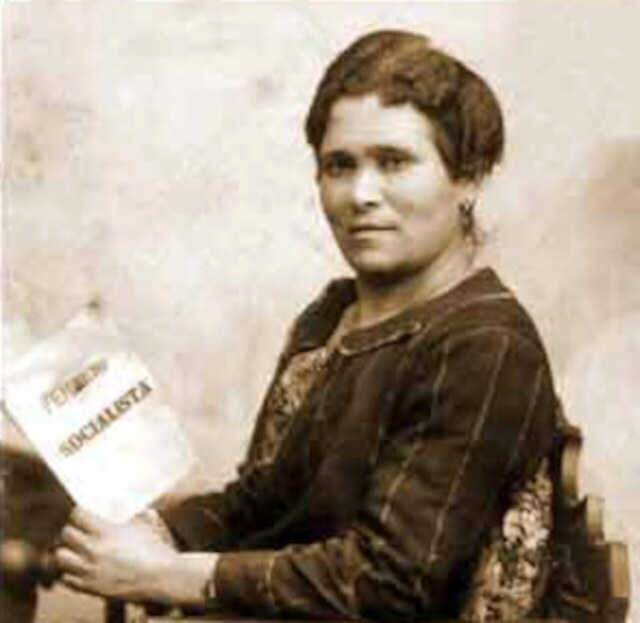
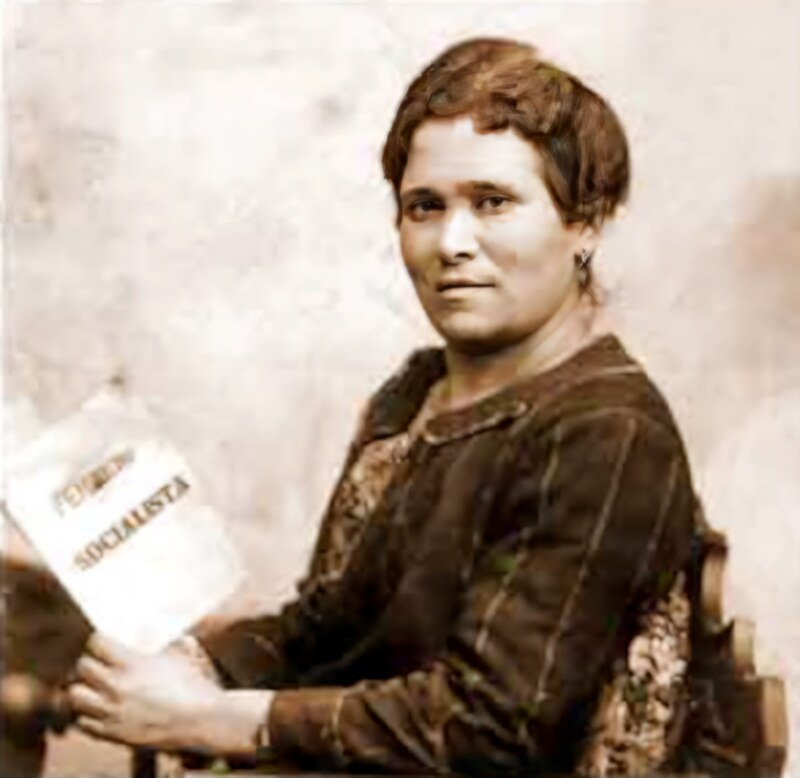
María Cambrils: foto retocada por la autoría
Claude-Session: https://claude.ai/code/session_01GNPi7MLADEHLFNVRKLEQBp

diff --git a/sa1/sesion-6.html b/sa1/sesion-6.html
@@ -5,7 +5,7 @@
   <meta name="viewport" content="width=device-width, initial-scale=1">
   <title>Sesión 6 · Los primeros grupos femeninos socialistas en Asturias · Situación de aprendizaje 1</title>
   <link rel="stylesheet" href="../css/ud.css?v=6d072dc7">
-  <script src="../js/datos-sa1.js?v=ea8b7684" defer></script>
+  <script src="../js/datos-sa1.js?v=d6996e67" defer></script>
   <script src="../js/ud-menu.js?v=d25b05dd" defer></script>
   <script src="../js/ud-actividades.js?v=11ae13f1" defer></script>
 </head>

diff --git a/sa1/sesion-5.html b/sa1/sesion-5.html
@@ -5,7 +5,7 @@
   <meta name="viewport" content="width=device-width, initial-scale=1">
   <title>Sesión 5 · La voz de las trabajadoras asturianas · Situación de aprendizaje 1</title>
   <link rel="stylesheet" href="../css/ud.css?v=6d072dc7">
-  <script src="../js/datos-sa1.js?v=ea8b7684" defer></script>
+  <script src="../js/datos-sa1.js?v=d6996e67" defer></script>
   <script src="../js/ud-menu.js?v=d25b05dd" defer></script>
   <script src="../js/ud-actividades.js?v=11ae13f1" defer></script>
 </head>

diff --git a/sa1/sesion-3.html b/sa1/sesion-3.html
@@ -5,7 +5,7 @@
   <meta name="viewport" content="width=device-width, initial-scale=1">
   <title>Sesión 3 · Las pensadoras de la emancipación · Situación de aprendizaje 1</title>
   <link rel="stylesheet" href="../css/ud.css?v=6d072dc7">
-  <script src="../js/datos-sa1.js?v=ea8b7684" defer></script>
+  <script src="../js/datos-sa1.js?v=d6996e67" defer></script>
   <script src="../js/ud-menu.js?v=d25b05dd" defer></script>
   <script src="../js/ud-actividades.js?v=11ae13f1" defer></script>
 </head>

diff --git a/sa1/index.html b/sa1/index.html
@@ -5,7 +5,7 @@
   <meta name="viewport" content="width=device-width, initial-scale=1">
   <title>Situación de aprendizaje 1 · ¡Compañeras, luchemos por nuestros derechos!</title>
   <link rel="stylesheet" href="../css/ud.css?v=6d072dc7">
-  <script src="../js/datos-sa1.js?v=ea8b7684" defer></script>
+  <script src="../js/datos-sa1.js?v=d6996e67" defer></script>
   <script src="../js/ud-menu.js?v=d25b05dd" defer></script>
   <script src="../js/ud-actividades.js?v=11ae13f1" defer></script>
 </head>

diff --git a/sa1/sesion-4.html b/sa1/sesion-4.html
@@ -5,7 +5,7 @@
   <meta name="viewport" content="width=device-width, initial-scale=1">
   <title>Sesión 4 · Educación, trabajo y ciudadanía · Situación de aprendizaje 1</title>
   <link rel="stylesheet" href="../css/ud.css?v=6d072dc7">
-  <script src="../js/datos-sa1.js?v=ea8b7684" defer></script>
+  <script src="../js/datos-sa1.js?v=d6996e67" defer></script>
   <script src="../js/ud-menu.js?v=d25b05dd" defer></script>
   <script src="../js/ud-actividades.js?v=11ae13f1" defer></script>
 </head>

diff --git a/sa1/sesion-1.html b/sa1/sesion-1.html
@@ -5,7 +5,7 @@
   <meta name="viewport" content="width=device-width, initial-scale=1">
   <title>Sesión 1 · ¿Súbditas o ciudadanas? · Situación de aprendizaje 1</title>
   <link rel="stylesheet" href="../css/ud.css?v=6d072dc7">
-  <script src="../js/datos-sa1.js?v=ea8b7684" defer></script>
+  <script src="../js/datos-sa1.js?v=d6996e67" defer></script>
   <script src="../js/ud-menu.js?v=d25b05dd" defer></script>
   <script src="../js/ud-actividades.js?v=11ae13f1" defer></script>
 </head>

diff --git a/sa1/sesion-2.html b/sa1/sesion-2.html
@@ -5,7 +5,7 @@
   <meta name="viewport" content="width=device-width, initial-scale=1">
   <title>Sesión 2 · La campaña sufragista · Situación de aprendizaje 1</title>
   <link rel="stylesheet" href="../css/ud.css?v=6d072dc7">
-  <script src="../js/datos-sa1.js?v=ea8b7684" defer></script>
+  <script src="../js/datos-sa1.js?v=d6996e67" defer></script>
   <script src="../js/ud-menu.js?v=d25b05dd" defer></script>
   <script src="../js/ud-actividades.js?v=11ae13f1" defer></script>
 </head>

diff --git a/sa1/sesion-7.html b/sa1/sesion-7.html
@@ -5,7 +5,7 @@
   <meta name="viewport" content="width=device-width, initial-scale=1">
   <title>Sesión 7 · Podcast feminista · Situación de aprendizaje 1</title>
   <link rel="stylesheet" href="../css/ud.css?v=6d072dc7">
-  <script src="../js/datos-sa1.js?v=ea8b7684" defer></script>
+  <script src="../js/datos-sa1.js?v=d6996e67" defer></script>
   <script src="../js/ud-menu.js?v=d25b05dd" defer></script>
   <script src="../js/ud-actividades.js?v=11ae13f1" defer></script>
 </head>

diff --git a/sa1/creditos.html b/sa1/creditos.html
@@ -5,7 +5,7 @@
   <meta name="viewport" content="width=device-width, initial-scale=1">
   <title>Fuentes y créditos · Situación de aprendizaje 1</title>
   <link rel="stylesheet" href="../css/ud.css?v=6d072dc7">
-  <script src="../js/datos-sa1.js?v=ea8b7684" defer></script>
+  <script src="../js/datos-sa1.js?v=d6996e67" defer></script>
   <script src="../js/ud-menu.js?v=d25b05dd" defer></script>
   <script src="../js/ud-actividades.js?v=11ae13f1" defer></script>
 </head>

diff --git a/sa1/marco.html b/sa1/marco.html
@@ -5,7 +5,7 @@
   <meta name="viewport" content="width=device-width, initial-scale=1">
   <title>Marco curricular · Situación de aprendizaje 1</title>
   <link rel="stylesheet" href="../css/ud.css?v=6d072dc7">
-  <script src="../js/datos-sa1.js?v=ea8b7684" defer></script>
+  <script src="../js/datos-sa1.js?v=d6996e67" defer></script>
   <script src="../js/ud-menu.js?v=d25b05dd" defer></script>
   <script src="../js/ud-actividades.js?v=11ae13f1" defer></script>
 </head>

diff --git a/js/datos-sa1.js b/js/datos-sa1.js
@@ -517,9 +517,9 @@ window.UD_DATOS = {
    "fuente": "https://commons.wikimedia.org/wiki/File:Mar%C3%ADa_Cambrils_Sendra.jpg",
    "sesion": "Sesión 3",
    "estado": "libre",
-   "estadoTexto": "Libre",
-   "w": 640,
-   "h": 622
+   "estadoTexto": "Libre (retocada por la autoría)",
+   "w": 800,
+   "h": 778
   }
  },
  "bloques": [

diff --git a/herramientas/cambios_sa1.py b/herramientas/cambios_sa1.py
@@ -43,7 +43,7 @@ retratos["retratos"].append({"nombre": "María Cambrils Sendra (1878-1939)", "fo
 D["imagenes"]["cambrils"] = {"src": "../img/sa1/cambrils.jpg", "alt": "Fotografía de María Cambrils sentada, con un ejemplar de un periódico en la mano.",
                              "titulo": "María Cambrils Sendra", "autor": "Autor desconocido", "fecha": "Sin fecha", "licencia": "Public domain",
                              "fuente": "https://commons.wikimedia.org/wiki/File:Mar%C3%ADa_Cambrils_Sendra.jpg", "sesion": "Sesión 3",
-                             "estado": "libre", "estadoTexto": "Libre", "w": 640, "h": 622}
+                             "estado": "libre", "estadoTexto": "Libre (retocada por la autoría)", "w": 800, "h": 778}
 
 # Errata del texto de Cambrils corregida con el visto bueno de la autoría.
 C["lectura_cita"][1] = cambiar(C["lectura_cita"][1], "en ellos órdenes", "en los órdenes")
